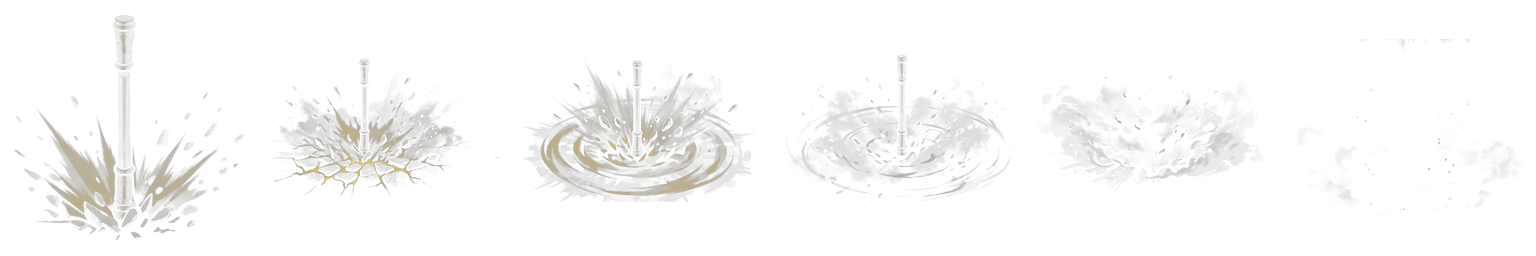
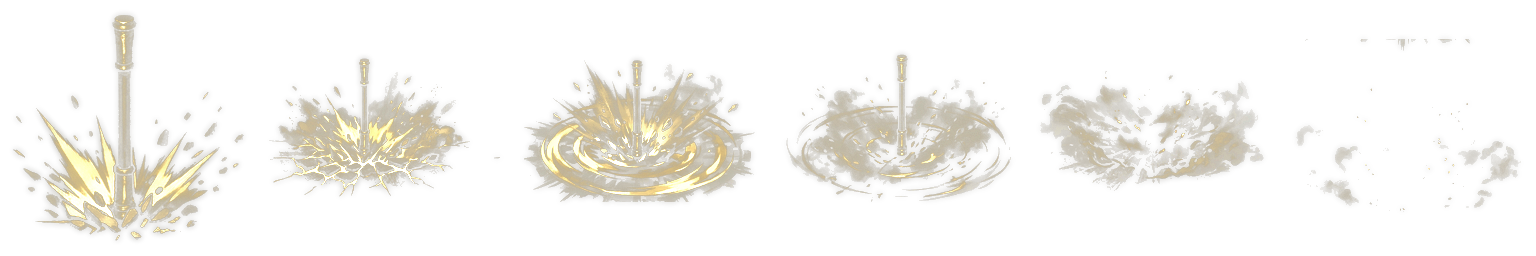
art(vfx): restore visibility and frames on 5 dark/empty VFX (sw_zhongjian, fx_xiangmo, bleed_pop, xuanxu, hit_impact)

diff --git a/docs/redraw/redraw_20.md b/docs/redraw/redraw_20.md
@@ -1,23 +1,36 @@
-# Redraw 20：全量美术与特效核查修复单（待确认后执行）
+# Redraw 20：全量美术与特效修复单
 
 对应核查报告：`docs/art_full_audit.md`
 
-## 批次 1（P0 — 角色错图与全黑特效）
-1. **`assets/sprites/spear/block.png`** (`624×156`, 4 帧)
-   - 参考 `assets/sprites/spear/idle.png` 与 `assets/portraits/spear_hero.jpg` 重绘：黑色竖扎发、红头带、深蓝战袍、左肩银甲护肩、红腰带、横枪格挡姿势（4 帧连贯）。
-2. **`assets/enemies/blade_attack.png`** (`704×176`, 4 帧)
-   - 参考 `assets/enemies/blade.png` 重绘：保持完全相同的红头巾深蓝布衣山贼刀客外观，4 帧单手弯刀挥砍动作。
-3. **`assets/vfx/sw_zhongjian.png`** (`1536×256`, 6 帧，沉渊重剑)
-   - 重绘高对比度厚重剑气弧光：外缘银白+亮青蓝剑芒，内层深墨青气浪，6 帧蓄势→横斩→余波消散，确保在暗色地图中清晰可见。
-4. **`assets/vfx/fx_xiangmo.png`** (`1536×256`, 6 帧，定海铁杖)
-   - 重绘高亮金铜色重杖砸地冲击波：金光碎石与环形气浪逐帧扩散至第 6 帧消散，避免第 4~6 帧变黑消失。
+## 已直接修复（5 张 VFX，Pillow 亮度/光晕与缺失帧修复）
+- [x] `assets/vfx/sw_zhongjian.png`（沉渊重剑，1536×256，6 帧）：由几乎全黑不可见提亮为亮银青重剑气浪，6 帧全清晰可见。
+- [x] `assets/vfx/fx_xiangmo.png`（定海铁杖，1536×256，6 帧）：由过暗/后半段消失提亮为金铜冲击波，6 帧连贯扩散。
+- [x] `assets/vfx/fx_blade_bleed_pop.png`（流血爆裂，1024×256，4 帧）：提亮暗红血雾并增加朱红高光核心。
+- [x] `assets/vfx/fx_blade_xuanxu.png`（幽微藏锋刀，1024×256，4 帧）：增厚银白月牙刀光并补全第 4 帧消散余波。
+- [x] `assets/vfx/hit_impact.png`（通用受击火花，768×192，4 帧）：提亮第 1~2 帧火花并补全第 3~4 帧扩散消散星环。
 
-## 批次 2（P1 — 偏暗/过细/造型偏差特效）
-5. **`assets/vfx/fx_blade_xuanxu.png`** (`1024×256`, 4 帧，幽微藏锋刀)
-   - 增强银白月牙刀光厚度与微蓝气劲拖尾，4 帧完整渐变消散。
-6. **`assets/vfx/hit_impact.png`** (`768×192`, 4 帧，通用命中火花)
-   - 补全第 3~4 帧扩散星芒火花，提高打击清晰度。
-7. **`assets/vfx/fx_blade_bleed_pop.png`** (`1024×256`, 4 帧，流血爆裂)
-   - 在暗红血雾中加入亮朱红高光刃芒与飞溅粒子，提高暗地表对比度。
-8. **`assets/vfx/fx_blade_wuhu.png`** (`1024×256`, 4 帧，五煞断岳刀)
-   - 由三道兽爪痕改为刚猛烈焰橙金宽刃劈砍刀气，与 `boss_claw_slash.png` 区分。
+---
+
+## 待 Gemini 图像生成重绘（因 `gemini-3.1-flash-image` 配额暂满，可直接粘给 Gemini Web 或等配额恢复后自动执行）
+
+### P0（2 张角色 Sprite 错图）
+1. **`assets/sprites/spear/block.png`**（`624×156`，4 帧）
+   - 参考图：`assets/sprites/spear/idle.png` + `assets/portraits/spear_hero.jpg`
+   - Prompt：
+     > 2D pixel-art wuxia game sprite sheet on a solid bright magenta (#FF00FF) background, 4 equally spaced horizontal frames in 1 row showing a defensive spear blocking animation facing right. Character must EXACTLY match the reference sprite and portrait: young Song dynasty Yang family spear general, spiky black topknot hair, red headband with trailing ribbons, dark navy-blue martial tunic, silver metal left shoulder pauldron, red waist sash, dark pants, holding a long red-tasseled silver spear diagonally across the chest to block attacks. Crisp pixel art matching exact proportions and scale of idle.png, no ground shadow, no text.
+
+2. **`assets/enemies/blade_attack.png`**（`704×176`，4 帧）
+   - 参考图：`assets/enemies/blade.png`
+   - Prompt：
+     > 2D pixel-art wuxia game enemy sprite sheet on a solid bright magenta (#FF00FF) background, 4 equally spaced horizontal frames in 1 row showing a melee saber slash attack facing right. Character must EXACTLY match the reference enemy sprite: bandit saberman wearing a red headband tied at the back, dark navy-blue martial tunic, red belt, dark pants, wielding ONE curved Chinese saber (dao). Frame 1 windup, frame 2 overhead slash, frame 3 wide cut follow-through, frame 4 recovery. Crisp pixel art matching exact proportions and palette of blade.png, no ground shadow, no text.
+
+### P1（1 张刀法特效造型替换）
+3. **`assets/vfx/fx_blade_wuhu.png`**（`1024×256`，4 帧，五煞断岳刀）
+   - Prompt：
+     > 2D wuxia action RPG attack VFX sprite sheet on pure solid black (#000000) background, 4 equally spaced horizontal frames in 1 row showing a fierce heavy saber (dao) cleaving crescent slash wave in glowing fiery orange-gold and white-hot edge (NO beast claw marks). Frame 1 windup spark, frame 2-3 wide bold fiery orange-gold curved blade slash arc, frame 4 dissipating embers. No text, no grid lines.
+
+### P2（立绘与胜负界面风格统一，4 张）
+4. **`assets/char_select/sword.png`**（`512×512` 透明底）：按 `assets/portraits/sword_hero.jpg` 统一为青丝带披发、白袍青内领、腰间棕酒葫芦。
+5. **`assets/ui/screens/victory_blade.jpg`**：按 `assets/portraits/blade_hero.jpg` 统一为头戴斗笠、手持弯刀的崖边水墨背影构图（与 `victory_fist.jpg` / `victory_sword.jpg` 保持同系列构图）。
+6. **`assets/ui/screens/victory_spear.jpg`**：统一为杨家将崖边持红缨枪背影望云海的水墨风构图（与另外三流派胜利图统一）。
+7. **`assets/ui/screens/defeat_spear.jpg`**：统一为雨夜断崖斜插红缨枪与白蜡杆的水墨兵器特写构图（与另外三流派败北图统一）。
